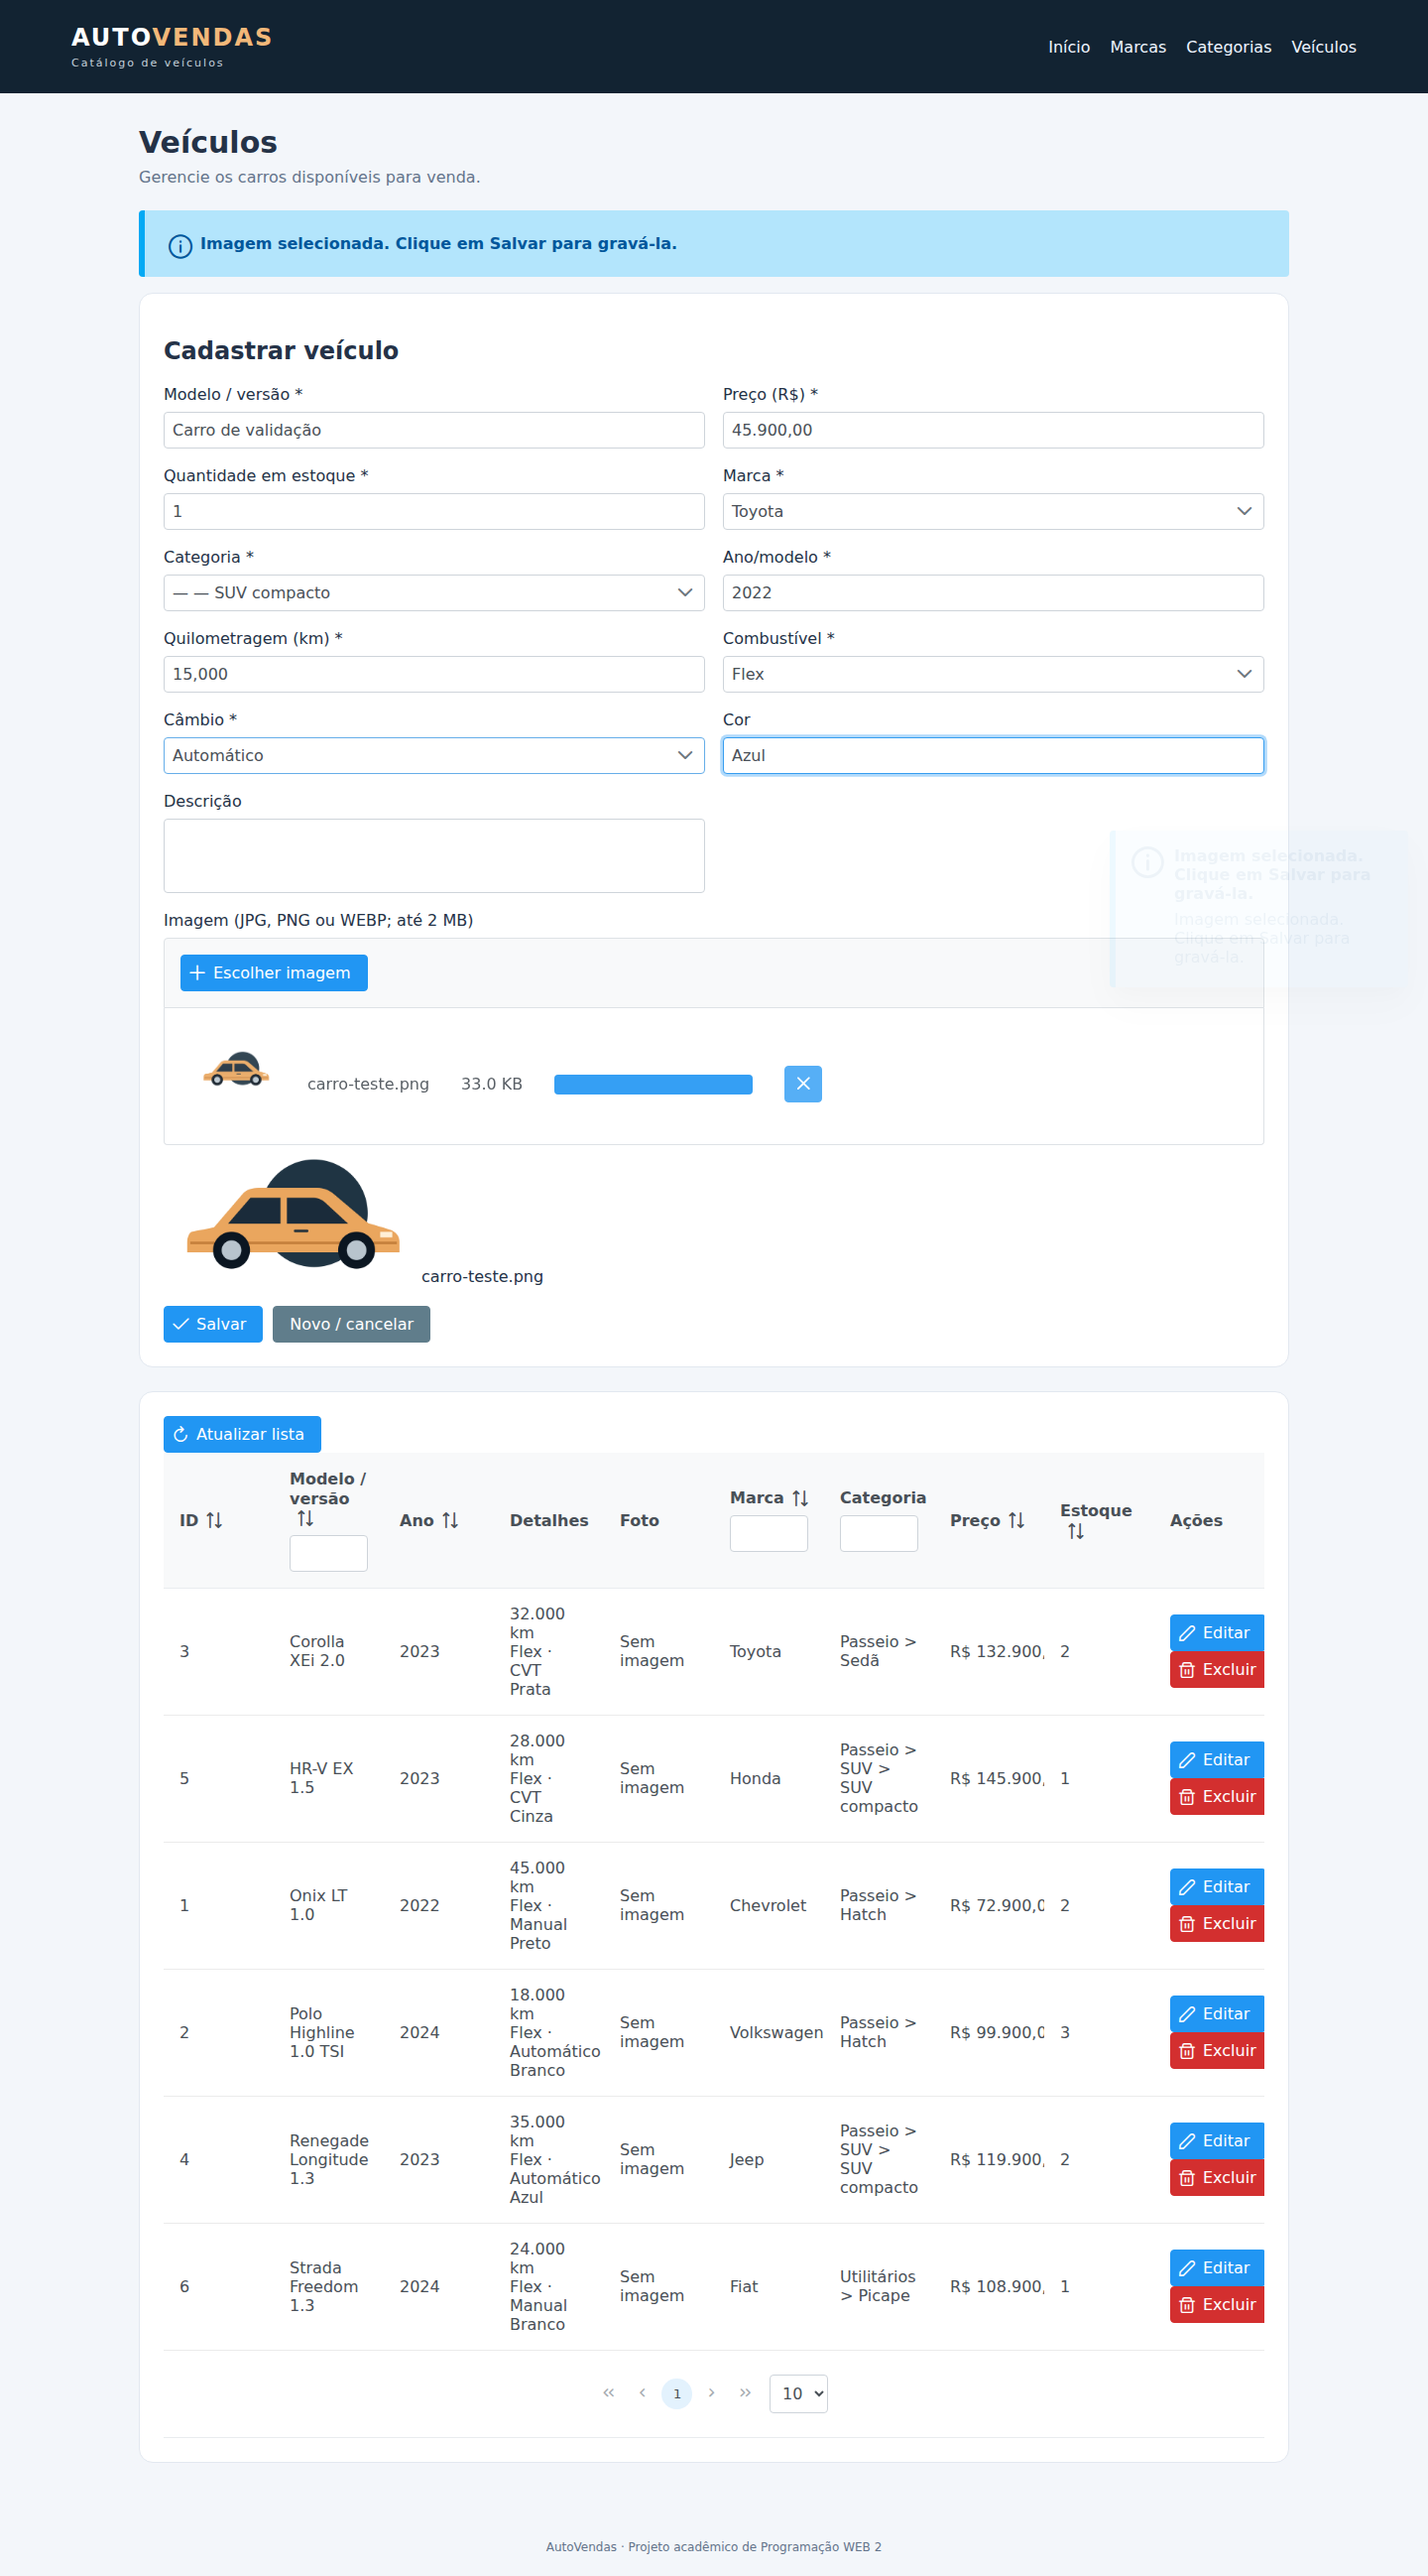
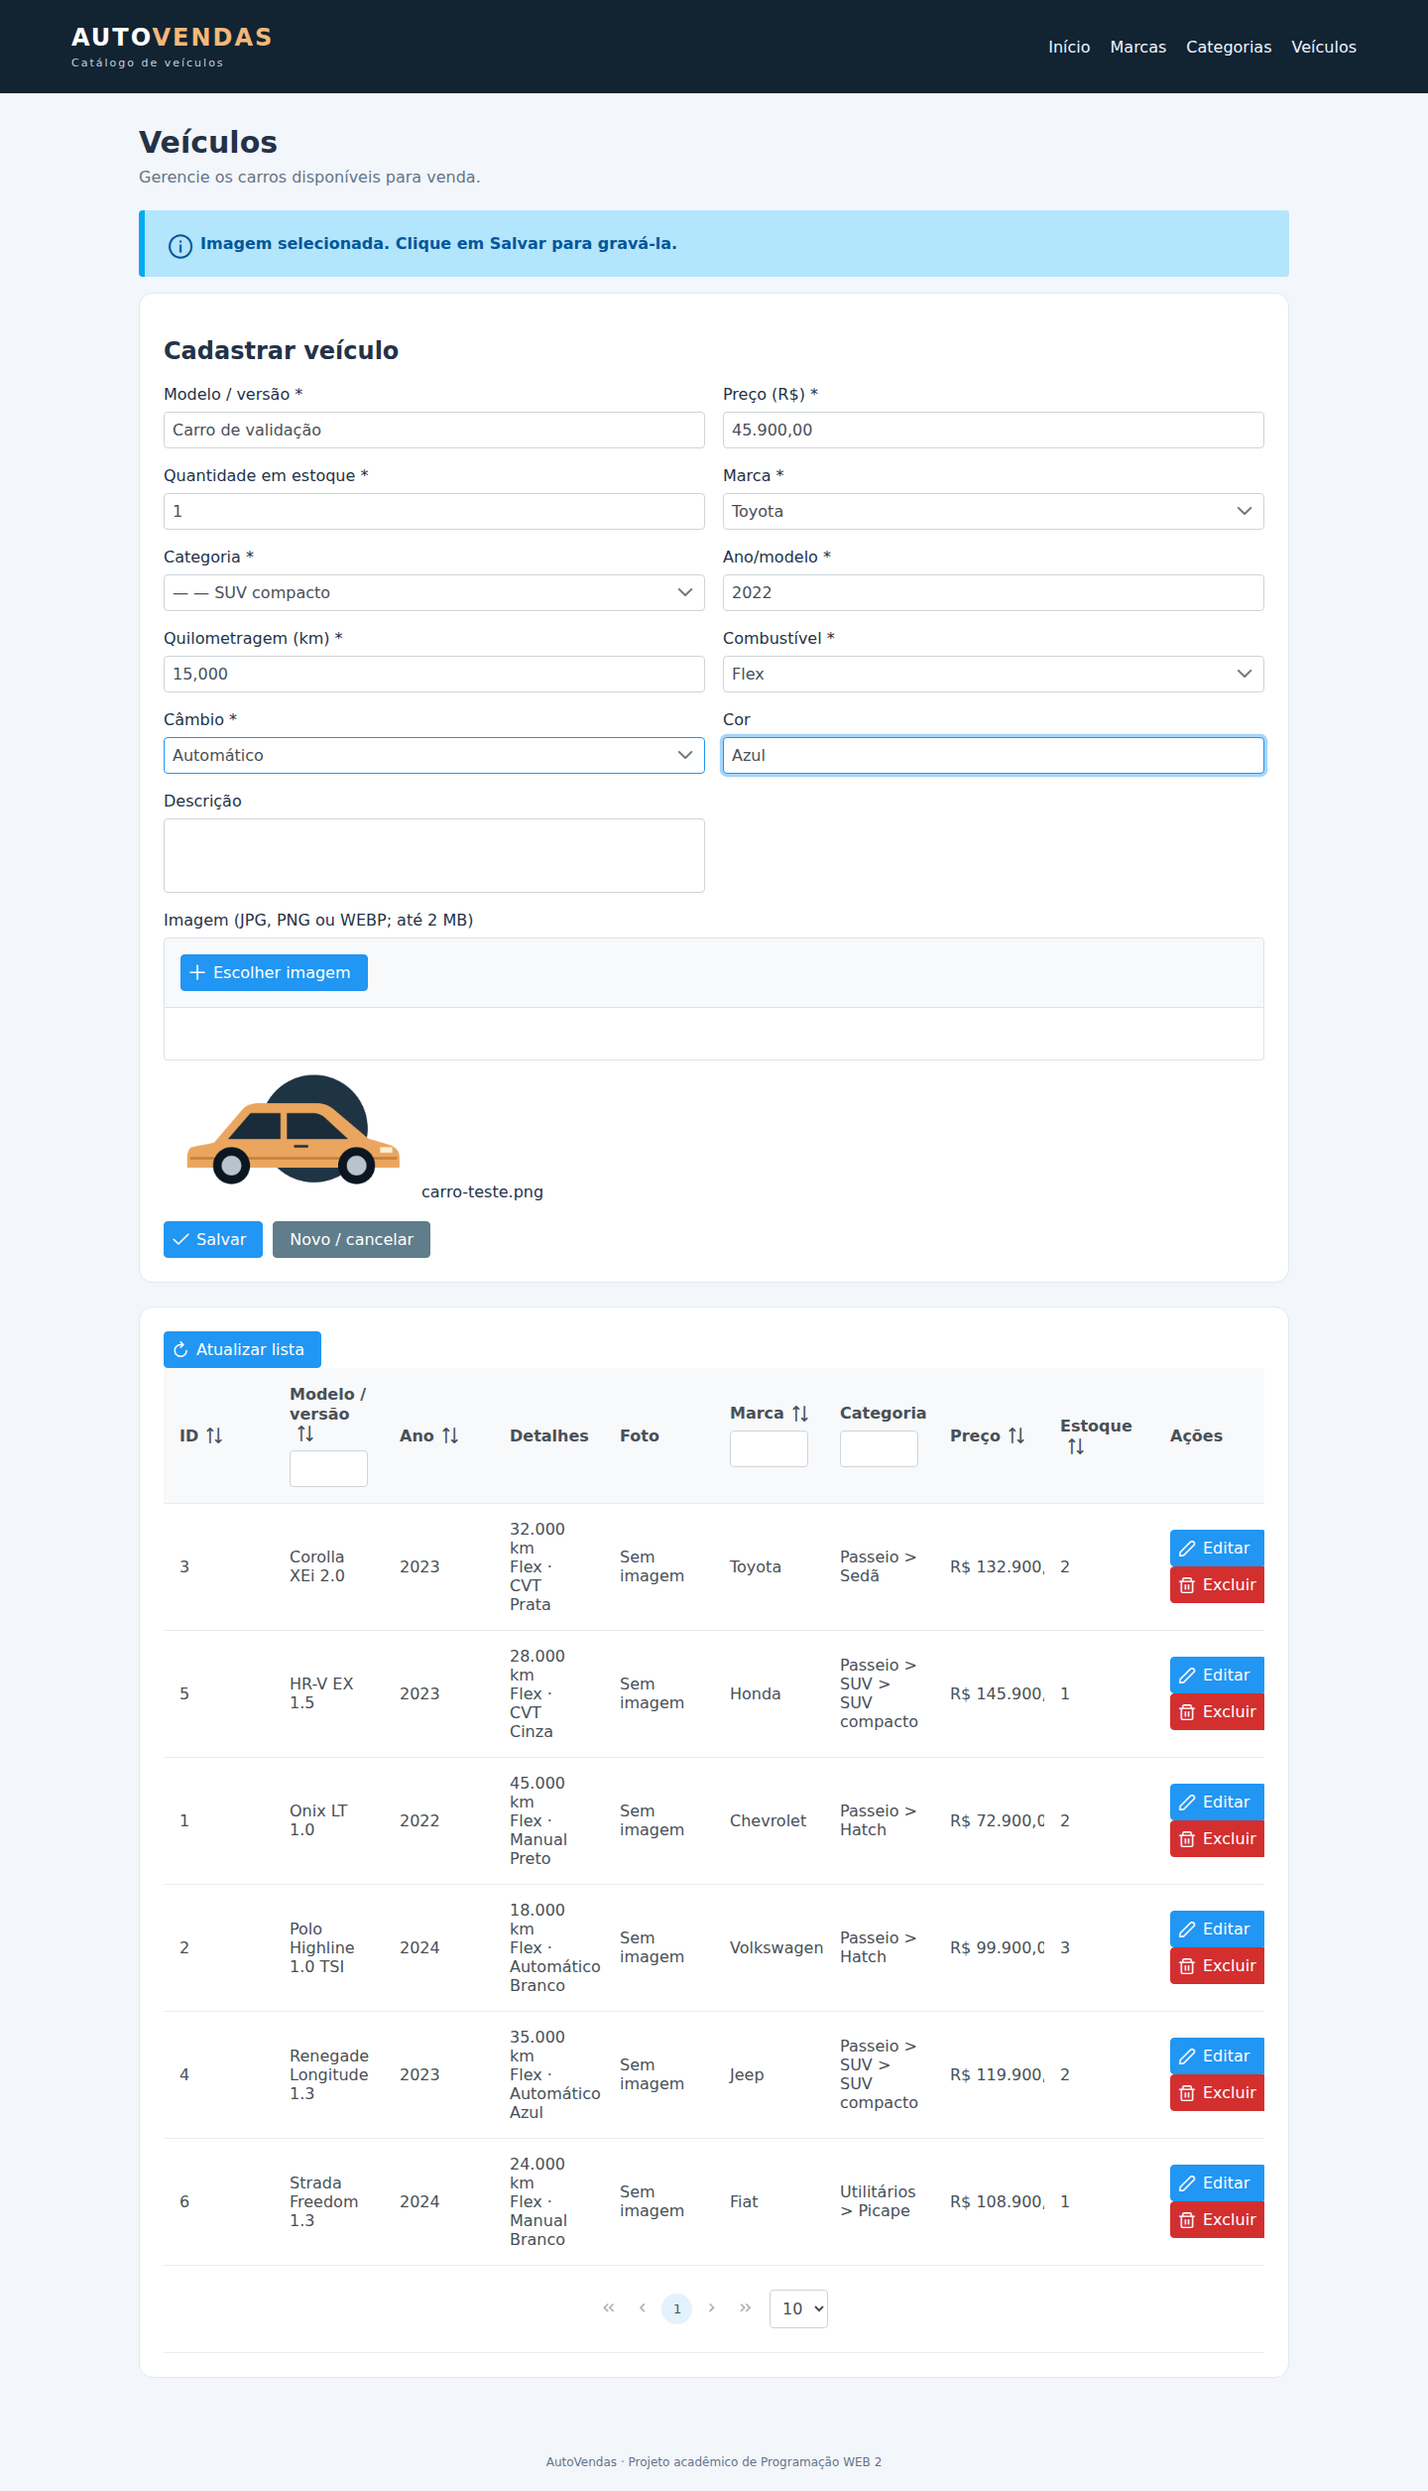
Ajusta leitura da tabela de veiculos e atualiza capturas verificadas

diff --git a/src/main/webapp/resources/css/estilo.css b/src/main/webapp/resources/css/estilo.css
@@ -3,3 +3,5 @@
 .marca{text-decoration:none;color:#fff;letter-spacing:2px;white-space:nowrap}.marca .destaque{display:inline;font-size:inherit;font-weight:800;color:#f2b879;letter-spacing:2px}.marca small{display:block;font-size:11px;letter-spacing:2px;font-weight:400;margin-top:5px;color:#c3d0da}
 .hero{display:grid;grid-template-columns:1.2fr 1fr;gap:30px;align-items:center;background:#122332;color:#fff;border-radius:20px;padding:44px;margin-bottom:30px;overflow:hidden}.hero h1{font-size:42px;line-height:1.15;letter-spacing:-1px;margin:18px 0}.hero p{color:#c3d0da;line-height:1.6;max-width:420px}.etiqueta,.numero{font-size:11px;font-weight:bold;letter-spacing:1.8px}.etiqueta{color:#f2b879}.hero-visual img{width:100%;height:auto}.hero-visual span{display:block;text-align:center;color:#a7bac9;font-size:12px;letter-spacing:2px}.botao-hero{display:inline-block;background:#edb271;color:#132331;padding:14px 20px;text-decoration:none;border-radius:8px;font-weight:700;margin-top:12px}.numero{color:#64748b}.cards .painel:hover{border-color:#c78b4e;transform:translateY(-3px)}.cards .painel{transition:transform .15s ease}.cards p{line-height:1.65}.atalho{color:#9b541c;font-size:13px;font-weight:bold}.painel{scroll-margin-top:18px}.miniatura{width:96px;height:64px}.preview{max-width:260px;max-height:180px}.ui-datatable-tablewrapper{overflow-x:auto}
 @media(max-width:700px){.hero{grid-template-columns:1fr;padding:26px}.hero h1{font-size:32px}.hero-visual{max-width:320px;margin:auto}.ui-datatable table{min-width:1100px}}
+
+.tabela-veiculos table{table-layout:auto;min-width:1100px}.tabela-veiculos td:nth-child(8){white-space:nowrap}.tabela-veiculos td:nth-child(2){min-width:120px}.tabela-veiculos td:nth-child(7){min-width:135px}.tabela-veiculos td:last-child{min-width:105px}
